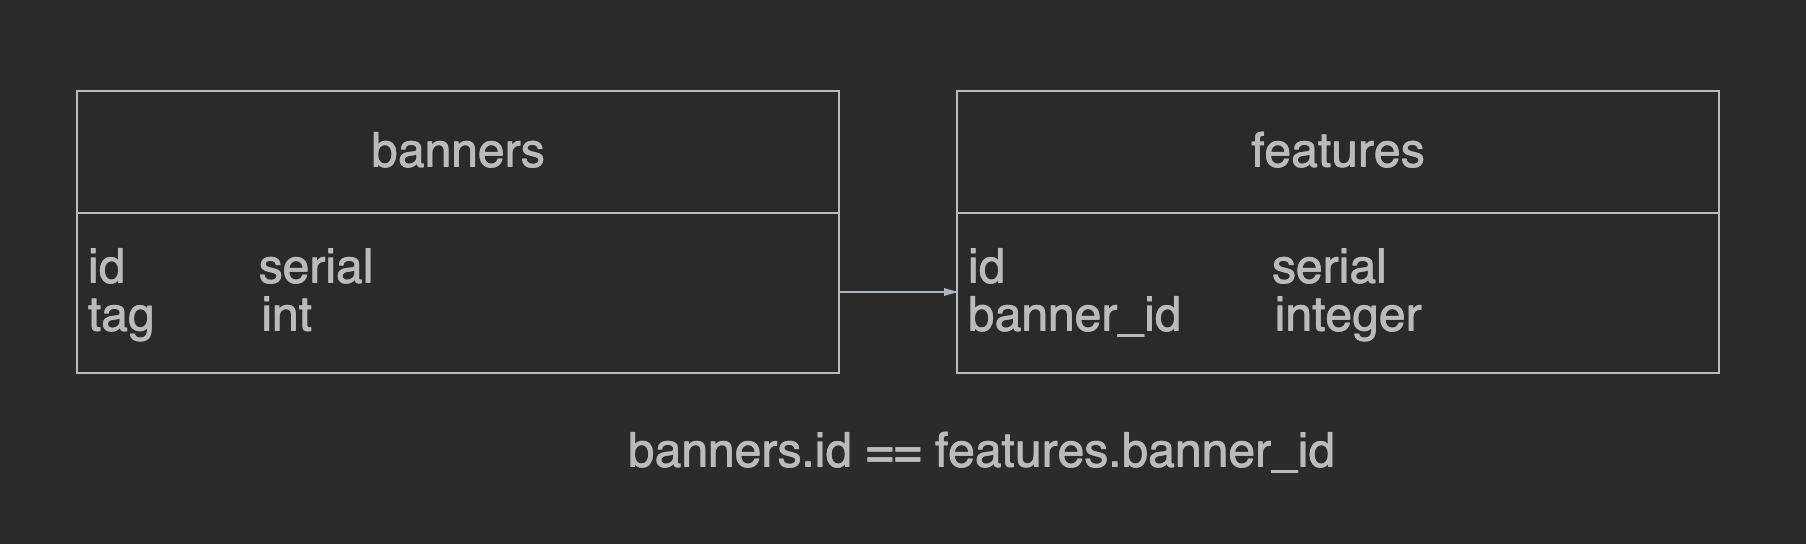
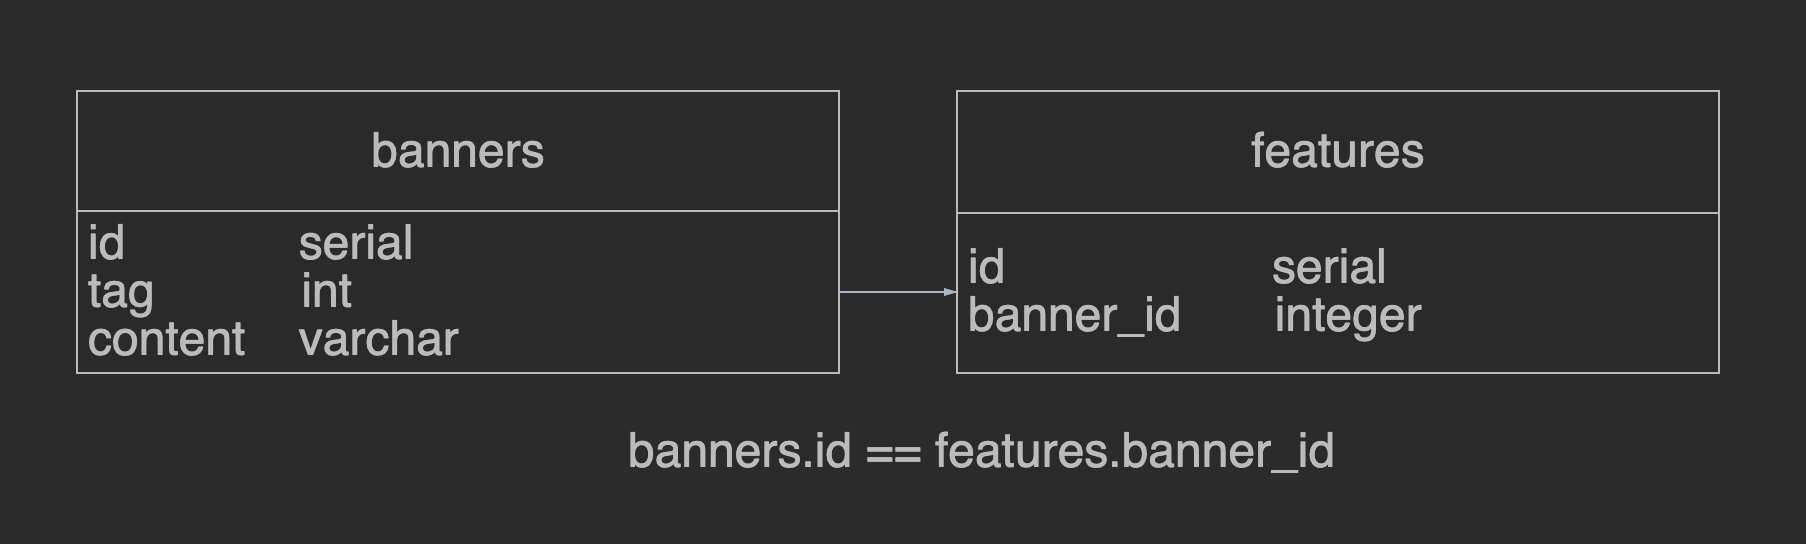
updated db & added triggers & started sql queries exec implementation

Changed region(s): [[0.031, 0.375, 0.4651, 0.6562]]

diff --git a/pkg/db/db.go b/pkg/db/db.go
@@ -3,18 +3,26 @@ package db
 import (
 	"context"
 
-	"github.com/jackc/pgx/v5"
+	"github.com/jackc/pgx"
+	"github.com/jackc/pgx/v5/pgxpool"
+)
+
+const (
+	QueryGetUserBanner             = "SELECT b.content FROM banners b JOIN tags t ON t.banner_id = b.id WHERE t.id=$2 AND b.feature=$1;"
+	QueryGetBanners                = "SELECT b.id, b.feature, b.content, b.created_at, b.updated_at, b.is_active, array_agg(t.id) FROM banners b JOIN tags t ON t.banner_id = b.id GROUP BY b.id LIMIT $1 OFFSET $2;"
+	QueryGetBannersFilterByFeature = "SELECT b.id, b.feature, b.content, b.created_at, b.updated_at, b.is_active, array_agg(t.id) FROM banners b JOIN tags t ON t.banner_id = b.id GROUP BY b.id HAVING b.feature = $1 LIMIT $2 OFFSET $3;"
+	QueryGetBannersFilterByTag     = "SELECT b.id, b.feature, b.content, b.created_at, b.updated_at, b.is_active, array_agg(t.id) FROM banners b JOIN tags t ON t.banner_id = b.id WHERE t.id = $1 GROUP BY b.id HAVING b.feature = $2 LIMIT $3 OFFSET $4;"
 )
 
 type SQLDatabase struct {
-	C *pgx.Conn
+	pool *pgxpool.Pool
 }
 
 func InitDB(databaseURL string) (SQLDatabase, error) {
 	res := SQLDatabase{}
 	var err error
 
-	res.C, err = pgx.Connect(context.Background(), databaseURL)
+	res.pool, err = pgxpool.New(context.Background(), databaseURL)
 	if err != nil {
 		return res, err
 	}
@@ -23,18 +31,34 @@ func InitDB(databaseURL string) (SQLDatabase, error) {
 }
 
 type Database interface {
-	GetUserBanners(tagID int, featureID int, useLastRevision bool) ([]byte, error)
+	GetBannerContent(tagID int, featureID int) (*[]byte, error)
 	GetBanners(tagID int, featureID int, limit int, offset int) ([]Banner, error)
 	CreateBanner(banner Banner) error
 	UpdateBanner(id int, tagIDs []int, featureID int, content []byte, isActive bool) error
 	DeleteBanner(id int) error
 }
 
-func (db SQLDatabase) GetUserBanners(tagID int, featureID int, useLastRevision bool) ([]byte, error) {
-	return []byte{}, nil
+func (db SQLDatabase) GetBannerContent(tagID int, featureID int) (*[]byte, error) {
+	var content []byte
+	err := db.pool.QueryRow(
+		context.Background(),
+		QueryGetUserBanner,
+		tagID,
+		featureID,
+	).Scan(&content)
+
+	switch err {
+	case nil:
+		return &content, nil
+	case pgx.ErrNoRows:
+		return nil, nil
+	default:
+		return nil, err
+	}
 }
 
 func (db SQLDatabase) GetBanners(tagID int, featureID int, limit int, offset int) ([]Banner, error) {
+
 	return []Banner{}, nil
 }
 

diff --git a/pkg/handlers/handler_user_banner.go b/pkg/handlers/handler_user_banner.go
@@ -41,7 +41,18 @@ func (s ServiceHandler) HandleUserBanner(w http.ResponseWriter, r *http.Request)
 		w.WriteHeader(http.StatusBadRequest)
 		return
 	}
-	w.Write([]byte("OK"))
+
+	response, err := s.db.GetBannerContent(params.TagID, params.FeatureID)
+	switch {
+	case err == nil:
+		w.WriteHeader(http.StatusOK)
+		w.Header().Set("Content-Type", "application/json")
+		w.Write(*response)
+	case err != nil && response == nil:
+		w.WriteHeader(http.StatusNotFound)
+	default:
+		w.WriteHeader(http.StatusInternalServerError)
+	}
 }
 
 func parseUserBannerParams(params ...string) *UserBannerParams {

diff --git a/pkg/db/entities.go b/pkg/db/entities.go
@@ -6,7 +6,7 @@ type Banner struct {
 	ID        int
 	Tags      []int
 	Feature   int
-	Content   []byte
+	Content   string
 	IsActive  bool
 	CreatedAt *time.Time
 	UpdatedAt *time.Time

diff --git a/README.md b/README.md
@@ -3,6 +3,10 @@
 > Found out that it's possible to use codegenerators to parse `openapi.yml` file and generated handlers. But generated code was too strange and I decided to do it by myself....
 
 > Decided to use two tables: banners and features; this allows us to have multiple features for single banner. Scheme is shown in a picture.  
+
+> How to get 403 status for /user_banner...? Under these conditions probably when token is incorrect.
+
+
 ![Database Scheme](./assets/db_scheme.png)
 ## Setup
 ### PostgreSQL migration
